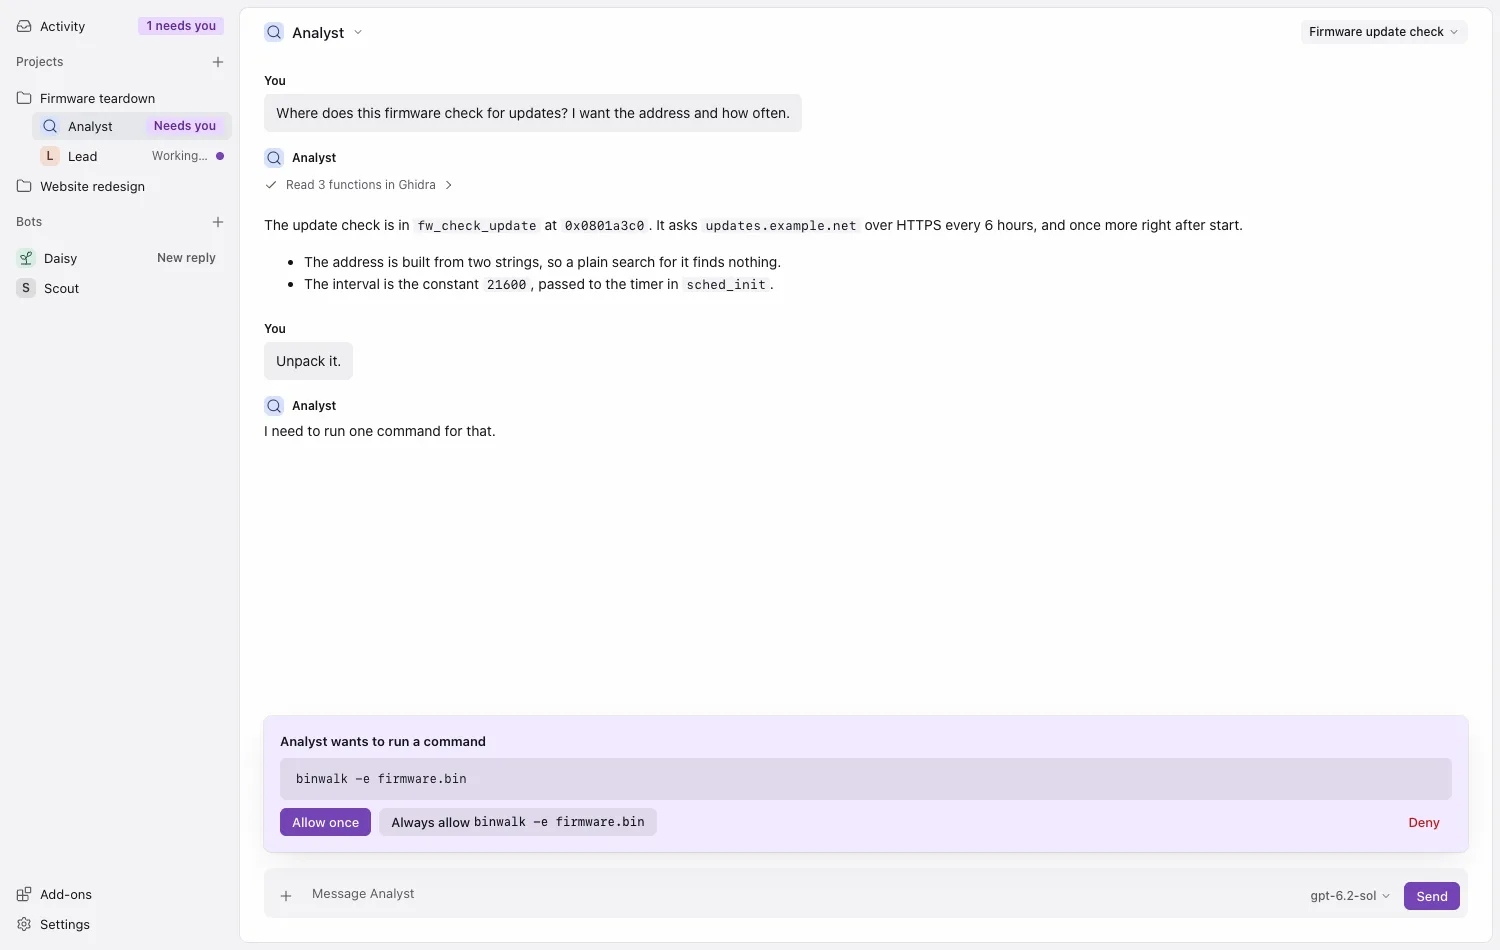
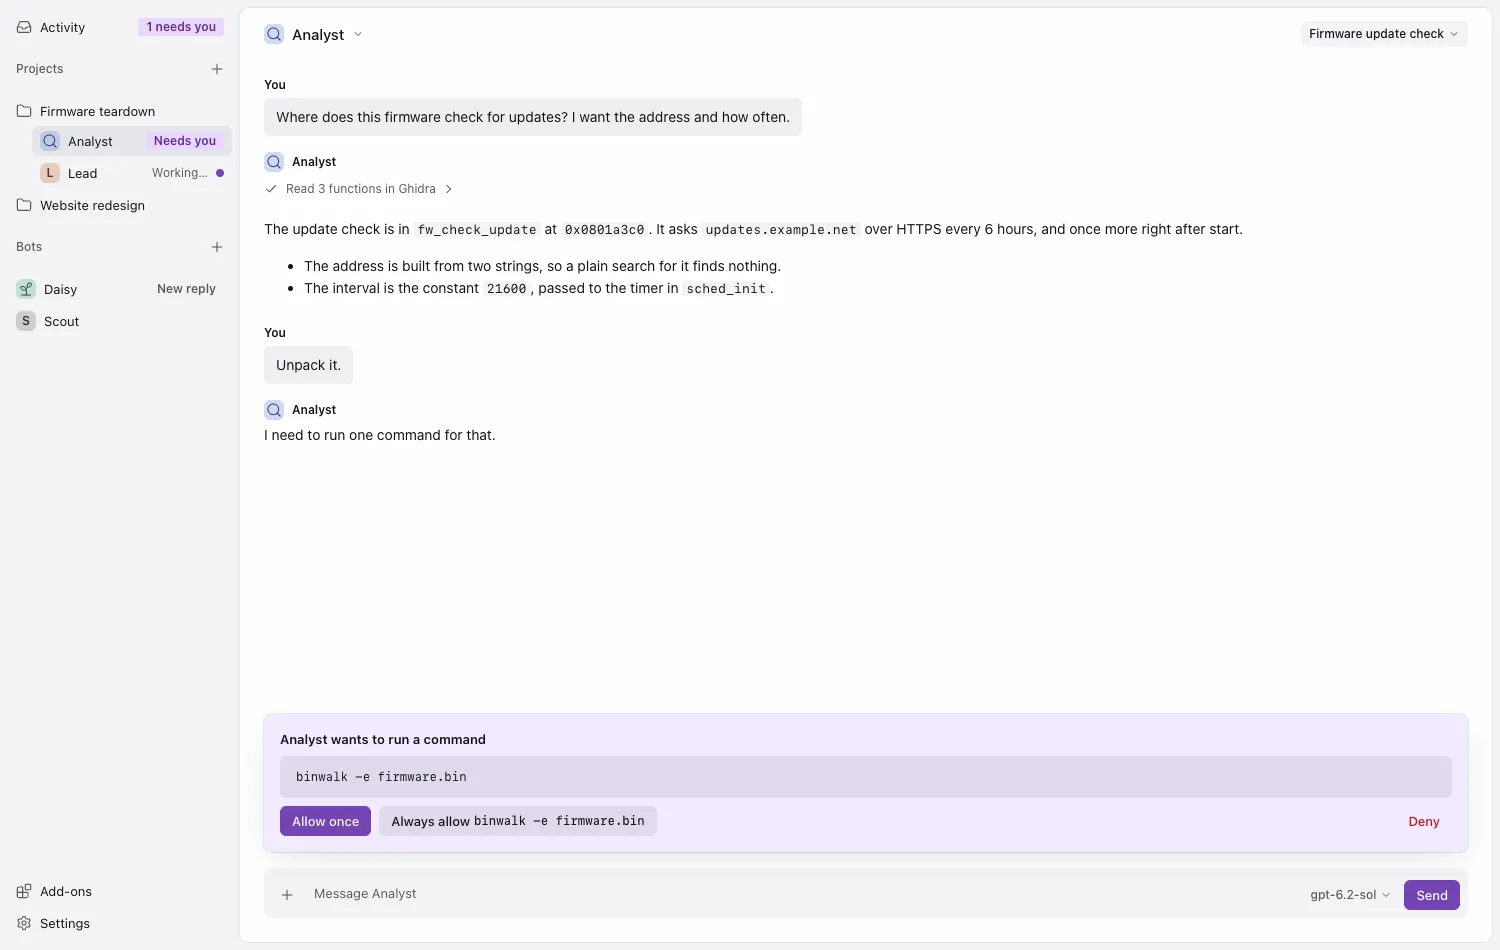
A little more room: controls 30 px, settings rows 36, header 52 (#333)

diff --git a/window/ui/src/style.css b/window/ui/src/style.css
@@ -300,7 +300,7 @@ main > .first-run { margin: auto; max-width: calc(var(--thread-w) / 2); padding:
 
 /* ---- The window: sidebar, main area, side pane ---- */
 .app { display: grid; grid-template-columns: var(--side-w) minmax(0, 1fr) auto; grid-template-rows: minmax(0, 1fr); height: 100vh; padding: var(--space-2) var(--space-2) var(--space-2) 0; background: var(--bg-side); }
-.sidebar { padding: var(--space-1) var(--space-2); overflow: auto; display: flex; flex-direction: column; gap: var(--space-2); }
+.sidebar { padding: var(--space-1) var(--space-2); overflow: auto; display: flex; flex-direction: column; gap: var(--space-3); }
 /* In Bate's own window the page runs under the title bar: the window's buttons sit on the ground above the sidebar, which moves the window (the sidebar, which scrolls, does not). */
 .app.shell .sidebar { margin-top: calc(var(--titlebar-h) - var(--space-1)); }
 /* In Bate's own window the ground lets the desktop through, blurred by the system's sidebar material (#313): the page under it is transparent, and the ground's tint is a little over half there. The sheets stay solid. */

diff --git a/window/ui/src/tokens.css b/window/ui/src/tokens.css
@@ -81,11 +81,11 @@
   --radius-l: 8px;
   --radius-bubble: 6px;
   --radius-pill: 999px;
-  --control-h: 28px;
-  --control-h-small: 24px;
-  --row-h: 32px;
+  --control-h: 30px;
+  --control-h-small: 26px;
+  --row-h: 36px;
   --row-h-l: 40px;
-  --head-h: 48px;
+  --head-h: 52px;
   /* The room the window's own buttons take at the top left, in Bate's window. */
   --titlebar-h: 40px;
   --avatar: 20px;

diff --git a/docs/design-system.md b/docs/design-system.md
@@ -4,7 +4,7 @@ How Bate's window looks and how its screens are built. One set of tokens, one se
 
 ## The direction
 
-The owner chose a chat-app look: a bot is a contact, a conversation is messages. After #292 they found it dated: a line round every control and between every two rows. The components were drawn again in #294 on one rule: **a surface is told from the next by its fill and its shadow, not by a line.** In #306 they were made compact and flat, like a tool's inspector: smaller type and controls, settings as plain rows under quiet headings, and fields that are a grey fill with no edge. In #312 the owner found the result too close to other chat apps (a centred column, a grey bubble, a black round send button, grey with no hue) and chose a work log: left-aligned, every message says who, soft-square shapes, and a lavender palette drawn dark first. In #329 they found that still not the look of a professional tool (type too big, loose rows, purple in every grey) and chose, from three pictures, a denser one: text at 13 px, controls 28 px high, neutral greys with lavender as the only colour, and drawn icons in place of emoji and text signs.
+The owner chose a chat-app look: a bot is a contact, a conversation is messages. After #292 they found it dated: a line round every control and between every two rows. The components were drawn again in #294 on one rule: **a surface is told from the next by its fill and its shadow, not by a line.** In #306 they were made compact and flat, like a tool's inspector: smaller type and controls, settings as plain rows under quiet headings, and fields that are a grey fill with no edge. In #312 the owner found the result too close to other chat apps (a centred column, a grey bubble, a black round send button, grey with no hue) and chose a work log: left-aligned, every message says who, soft-square shapes, and a lavender palette drawn dark first. In #329 they found that still not the look of a professional tool (type too big, loose rows, purple in every grey) and chose, from three pictures, a denser one: text at 13 px, controls 28 px high, neutral greys with lavender as the only colour, and drawn icons in place of emoji and text signs. In #333 they asked for a little of the room back: controls are 30 px high, a settings row 36, the header 52, half way to what they were before #329; the type stays.
 
 - **A ground and sheets.** The window is the ground (`--bg-side`); the sidebar lies on it. The page is a rounded sheet on the ground (`--bg`), and the side pane a second sheet beside it.
 - **Fills step.** A tile or a well on the sheet is `--bg-soft`; a button on the sheet has that fill too, and on a tile, a well or anything raised it steps to `--bg-soft-2` (`--fill`, set by the surface it is on), so a button never has the fill it sits on. In dark each step is lighter, in light darker.
@@ -50,7 +50,7 @@ All in `window/ui/src/tokens.css`.
 | Type | `--font-ui`, `--font-mono`, `--size-small` 12, `--size-ui` 13, `--size-chat` 14, `--size-title` 14 (a dialog's title), `--size-head` 15 (a page's title), `--size-display` 22 (the first run's title), `--leading` 18, `--leading-small` 16, `--leading-chat` 22, `--leading-head` 20, `--leading-display` 28, `--weight-strong` 600, `--tracking-head` | Chat text is 14/22; everything else 13/18. Code is never under 12 px |
 | Space | `--space-0` to `--space-6`: 2, 4, 8, 12, 16, 24, 40 | A 4 px grid and one half step |
 | Shape | `--radius-s` 3, `--radius-m` 6, `--radius-l` 8, `--radius-bubble` 6, `--radius-pill` | Code, badges and small things; buttons, fields, rows, tiles and avatars; sheets, wells, cards, the composer and dialogs; the person's message; a round button and a switch |
-| Size | `--control-h` 28, `--control-h-small` 24, `--row-h` 32, `--row-h-l` 40, `--head-h` 48, `--titlebar-h` 40 (room for the window's buttons above the sidebar, in Bate's window), `--avatar` 20, `--icon` 16, `--side-w` 240, `--thread-w` 720, `--reply-w` 640, `--popover-w` 300, `--nav-w` 168, `--chip-w` 180, `--tip-w` 240, `--switch-w` 28, `--switch-h` 16, `--control-w` 220 (a select or input in a settings row), `--control-w-short` 112 (a number of up to seven digits) | On a touch screen (`pointer: coarse`) `--control-h` is 36, `--control-h-small` 32 and `--row-h` 40 |
+| Size | `--control-h` 30, `--control-h-small` 26, `--row-h` 36, `--row-h-l` 40, `--head-h` 52, `--titlebar-h` 40 (room for the window's buttons above the sidebar, in Bate's window), `--avatar` 20, `--icon` 16, `--side-w` 240, `--thread-w` 720, `--reply-w` 640, `--popover-w` 300, `--nav-w` 168, `--chip-w` 180, `--tip-w` 240, `--switch-w` 28, `--switch-h` 16, `--control-w` 220 (a select or input in a settings row), `--control-w-short` 112 (a number of up to seven digits) | On a touch screen (`pointer: coarse`) `--control-h` is 36, `--control-h-small` 32 and `--row-h` 40 |
 | Motion | `--fast` 100 ms, `--slow` 180 ms, `--spin` 900 ms, `--beat` 1400 ms, `--ease` | Hover and press; a message arriving; the working marks turning and breathing (stopped, not shortened, for reduced motion) |
 
 ## Components
@@ -66,7 +66,7 @@ All in `window/ui/src/style.css`. "Built" means it is there now; a number is the
 | Settings row | `Setting` (`Form.tsx`): a `.setting`: on the left a title and one `<small>` hint (and the error, in `role="alert"`), on the right its `.control` (a switch, a select or input `--control-w` wide, a button). A select there reads as its value at the row's end, its fill showing when pointed at. A text field with no hint sits on the title's line and takes the rest of it ("Name [field]"); with a hint it goes under the title, as wide as the column (`short` keeps a number at the end). A button there is small by itself, with no `small` class; beside a text box or a select it keeps the box's height. A lone input, select or textarea takes the title as its label and describes itself by hint and error. `wide` puts a text area or a long line under the title; `inline` keeps a button beside the title. When the main area is 480 px wide or less (a phone) every control but a switch or a button goes under the title, as wide as the column, a select with its fill. After a save `<Saved>` shows beside the control | hint, error, saved, disabled, focus | yes |
 | Switch | `<label><input type="checkbox" role="switch"> Analyst</label>`: a checkbox that takes effect at once, with its words in the label. A checkbox that is only part of a form stays a checkbox | on, off, disabled, focus | yes |
 | Page menu | The page's title, which is also how to change page (`RowMenu.tsx` with `title`; `PageMenu` in `main.tsx`). `<h1><button class="title" aria-haspopup="menu" aria-expanded>` holds, for a bot, its avatar and `.name`; then, when the page is not the first one (Chat, Room, Connectors), the page's name in `.page` (`--fg-muted`, regular weight); then a small arrow (`.chevron`, a drawn icon). Under it a `.popover.dropdown.start` of `role="menu"` lists the pages (the same as the palette's "In …" lines; Channels and Surfaces in Bate's own window only), each a `.row.plain` button with `role="menuitemradio"`: the current one has `aria-checked="true"` and the `current` fill, and choosing one opens that page and closes the menu. The button has no fill until it is pointed at (`--bg-hover`); its padding is taken back on the left so the first word starts on the column's edge. Keys as in Row menu: Enter or Space opens it with the first item in focus, arrows, Home and End move, Enter chooses, Esc or a click outside closes it and the focus goes back to the title. A long name is cut with `…`; the page name and the project's name are cut before the bot's | closed, open, hover, current, focus | yes |
-| Header | `main > header`, `--head-h` (48 px), one row in the column's width, staying at the head of the sheet while the page scrolls under it: `.who` (the page's title at 15 px). A page with pages (a bot, a project, Add-ons) has the Page menu as its title; a bot in a project has the project's name before it, a `button.crumb` in `--fg-muted` that opens the project's Room, then a muted `/` with `--space-1` on each side. Other pages have a plain `<h1>`. There are no tabs. For a bot's Chat the conversation chip is at the end (at the column's end edge however short its name). The header's own space and `.who` move the window; the title button and the project's name are buttons and do not. Over the app's settings, which are wider than a column, it is as wide as that page | | yes |
+| Header | `main > header`, `--head-h` (52 px), one row in the column's width, staying at the head of the sheet while the page scrolls under it: `.who` (the page's title at 15 px). A page with pages (a bot, a project, Add-ons) has the Page menu as its title; a bot in a project has the project's name before it, a `button.crumb` in `--fg-muted` that opens the project's Room, then a muted `/` with `--space-1` on each side. Other pages have a plain `<h1>`. There are no tabs. For a bot's Chat the conversation chip is at the end (at the column's end edge however short its name). The header's own space and `.who` move the window; the title button and the project's name are buttons and do not. Over the app's settings, which are wider than a column, it is as wide as that page | | yes |
 | List row | `.row` with an `.avatar` and a `.label` (a name and a `<small>` line under it); `current` for the chosen one, which changes its fill only: its weight and width stay. `.row.plain` has an icon, or nothing, in place of the avatar. In the sidebar every row is one line, `--control-h` high: the name, cut when it is long, and its state at the row's end. A row to tick is `<label class="row">` with a checkbox before the avatar; one that cannot be ticked is dimmed and its `<small>` says why | hover, chosen, disabled, focus | yes |
 | Badge | `.badge` at the end of a `.row` (in the sidebar, after the bot's name inside its `.label`): one word on its fill, with no dot. Plain (warn) for what needs the person: "Needs you". `.badge.quiet` for what does not: "New reply", "Paused" (a paused bot shows it in place of "Working…" and "New reply"). A working bot has no badge: its `.label` ends in a `<small>Working…</small>` and its row in a `.pulse` dot. In a routine's row it is how its last run ended: "Sent" and "Skipped" quiet (a `<small>` gives the reason: "The bot was paused."); "Failed", "Missed", "Stopped" (the step limit) plain, with the reason in a `<small class="error">`. A routine held back after failed runs has a second `.badge.quiet` after it: "3 failed in a row, next run Tomorrow 09:00" | | yes |
 | Sidebar | `<nav class="sidebar">`: a `.heading` for each section (Projects, Bots), each with its plus beside the `<h2>` (a `round ghost` button; there is no "New project" row), a `<ul>` of rows, a nested `<ul>` for a project's bots (set in so that they start under the project's name), `.row.plain` with an icon for a row with no avatar (a folder for a project, an inbox for Activity, blocks for Add-ons, a gear for Settings), and `<ul class="foot">` for the app's own pages at the bottom. Above the first heading one `.row.plain` "Activity" with a `.badge` "2 need you" while a bot waits. In the strip under 640 px the headings stay, each right before its plus: a bare plus does not say what it adds | hover, chosen (`current`, with `aria-current`), focus | yes |
@@ -125,7 +125,7 @@ Three regions in one grid: sidebar, main area, side pane.
 | Region | Size | Rule |
 |---|---|---|
 | Ground | The window, with 8 px round the sheets | `--bg-side`. The sidebar lies on it; the sheets are rounded (`--radius-l`) |
-| Sidebar | `--side-w`: 240 px, 220 px under 900 px | Sections with a small heading; every row 28 px high and one line, as wide as the sidebar, with one padding so its words never move; a bot's row has a 20 px face, its state at its end, and its menu lies over that end on a fill of its own (the working dot fades while the menu shows). What is new goes at the bottom. In Bate's window it starts `--titlebar-h` down, under the window's buttons |
+| Sidebar | `--side-w`: 240 px, 220 px under 900 px | Sections with a small heading, `--space-3` apart; every row `--control-h` (30 px) high and one line, as wide as the sidebar, with one padding so its words never move; a bot's row has a 20 px face, its state at its end, and its menu lies over that end on a fill of its own (the working dot fades while the menu shows). What is new goes at the bottom. In Bate's window it starts `--titlebar-h` down, under the window's buttons |
 | Main area | The rest, a sheet | Every screen is one column of at most `--thread-w` (720 px), from the sheet's start edge. The conversation (a bot's or a project's) fills the sheet however wide the window: its header, the composer, cards and calls reach the end edge, and a message's text keeps `--reply-w`. The conversation's scroller is as wide as the sheet, so its bar is at the sheet's edge; the messages in it keep the header's edges |
 | Side pane | 480 px, dragged wider or narrower, a second sheet | The grip is the 8 px between the two sheets. Under 860 px it lies over the conversation (`pane.ts`) as a sheet with a scrim |
 
